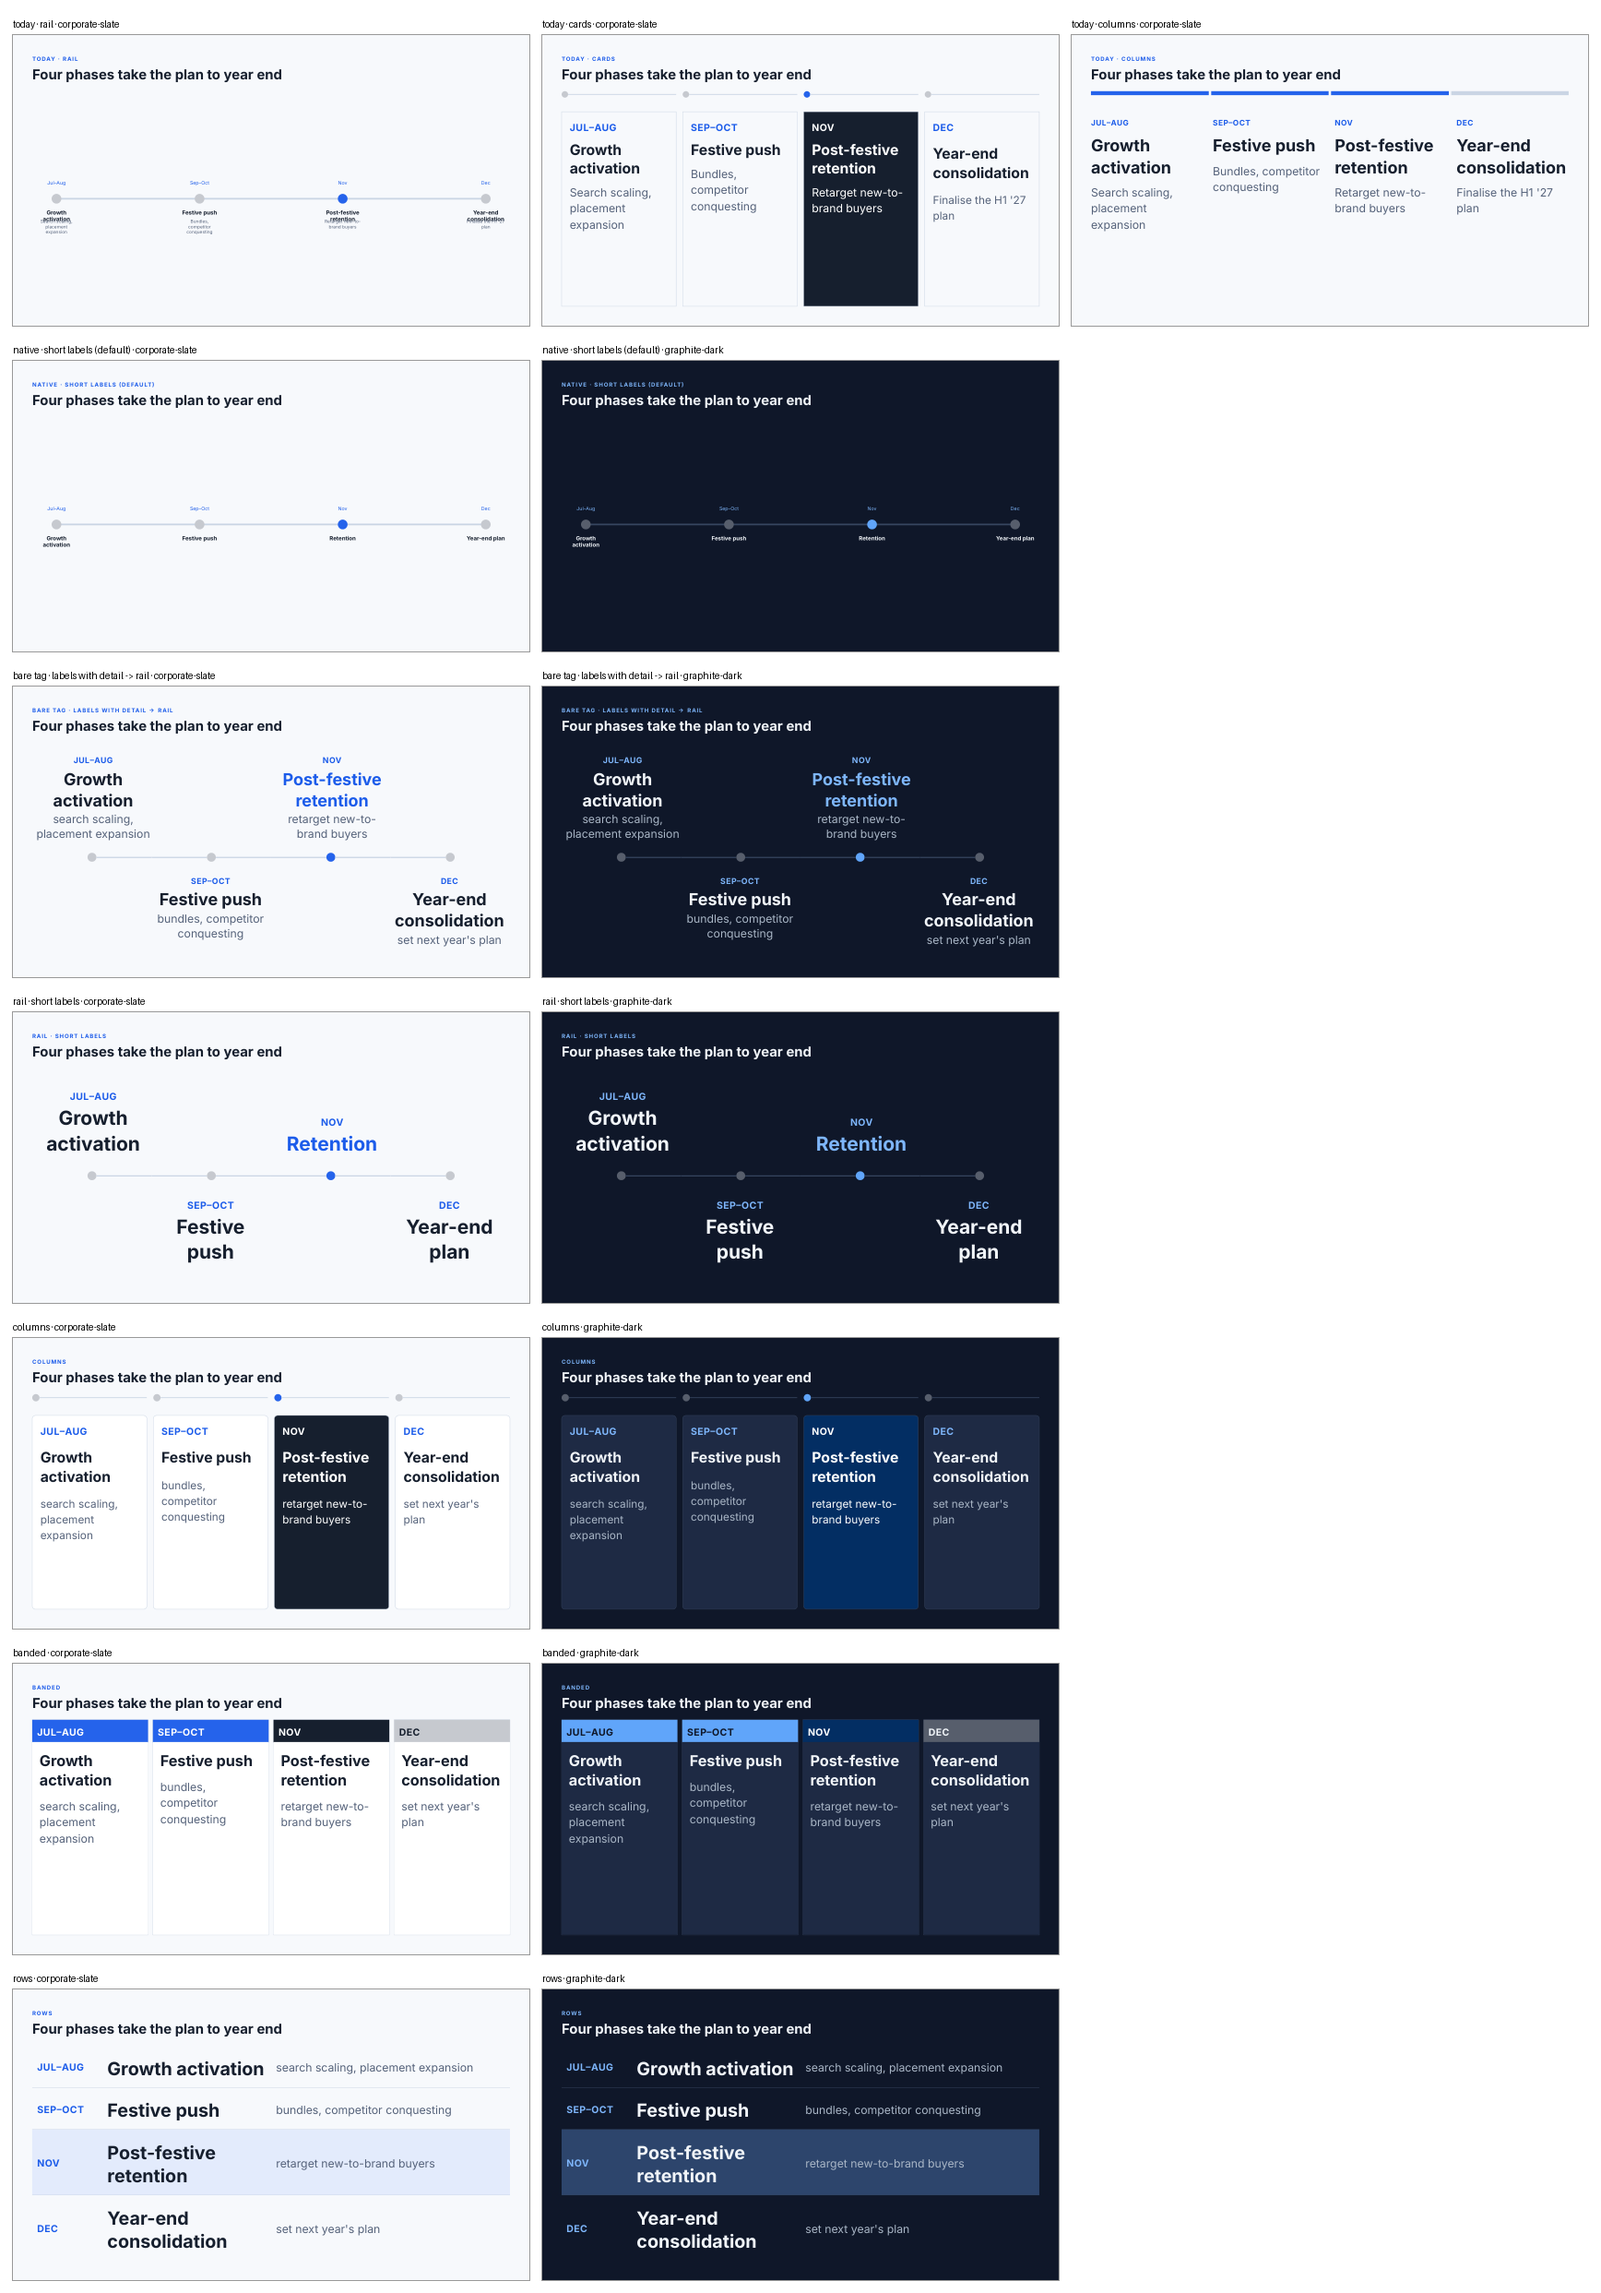
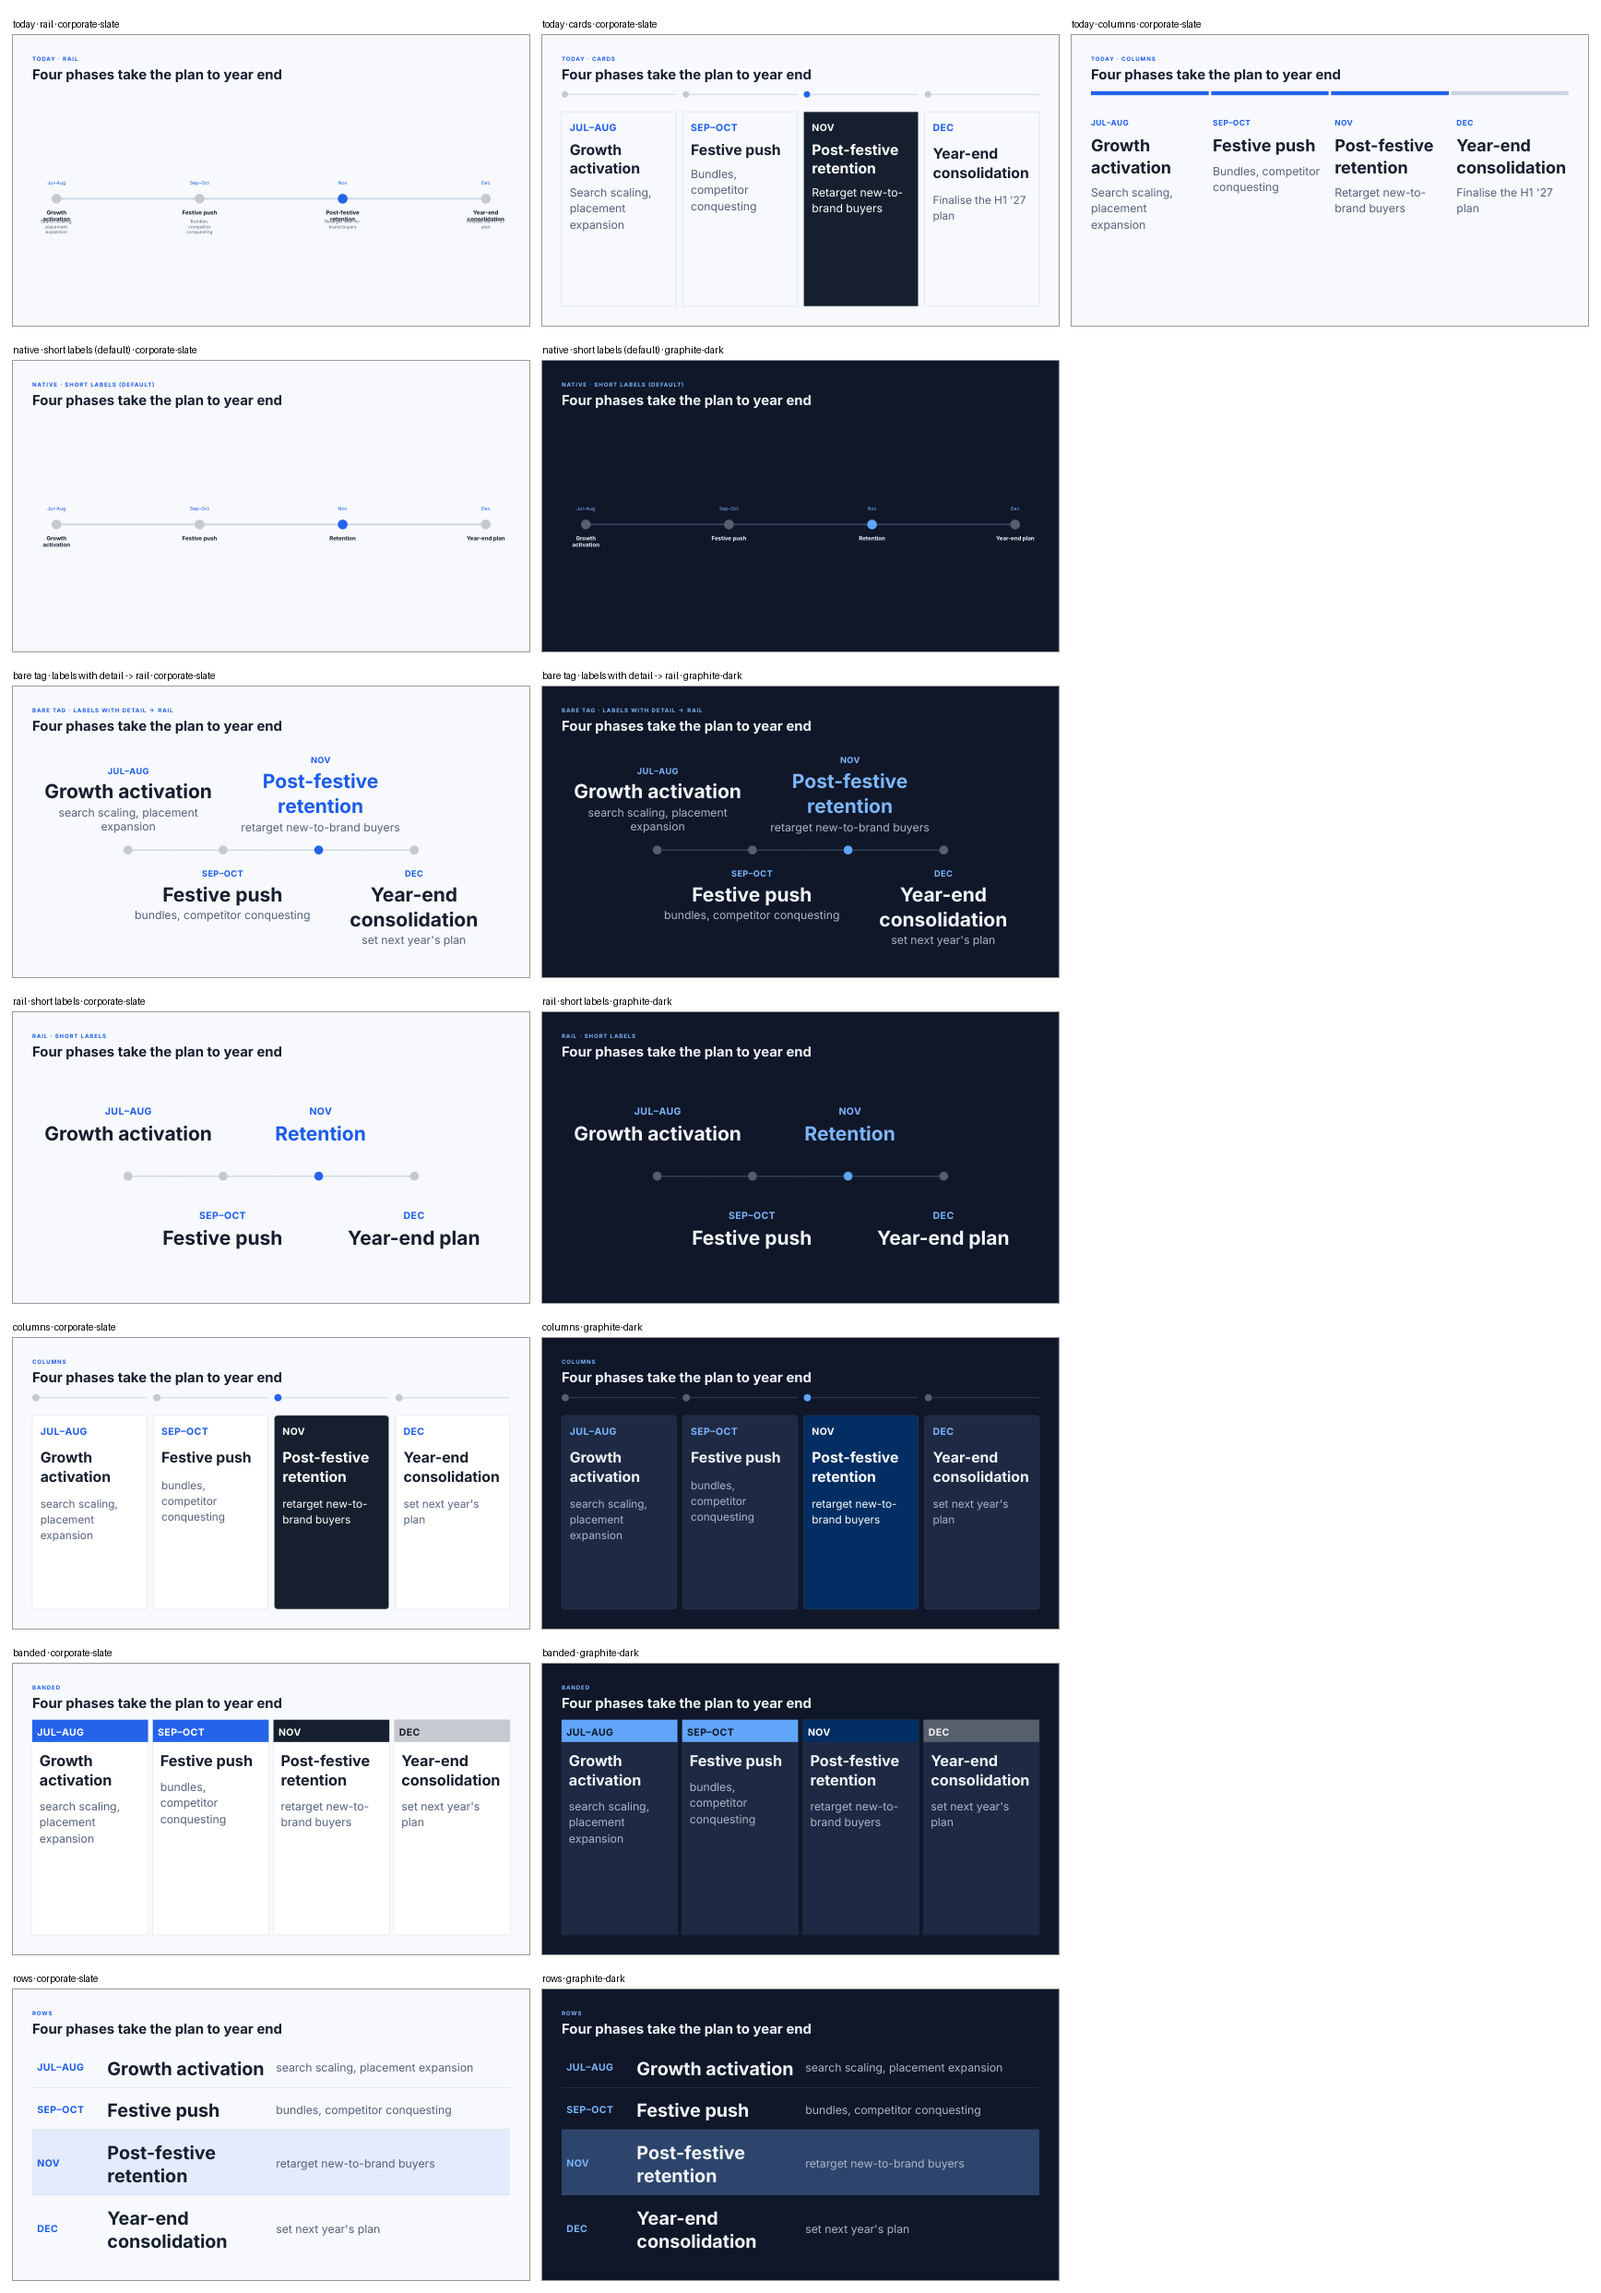
Timeline rail: each text spans two dot gaps (n + 1 units), free replay with the rail default
Six-point timelines with detail spilled their card (one text per sixth of the width). Replay: overlaps 25 -> 9
(LLM 22), GEOM_CARD_EMPTY 7 -> 1, plan items missing 28 -> 0, timeline output tokens -90%.

diff --git a/presentation-pipeline/src/compiler/nodes/sequences.py b/presentation-pipeline/src/compiler/nodes/sequences.py
@@ -93,22 +93,27 @@ def timeline_native(comp, its, box, styles, focus, meta) -> str:
 
 
 def timeline_rail(comp, its, box, styles, focus, meta) -> str:
-    """Dots on a line; each point's date, head and detail above it (even points) or below it (odd ones), so
-    neighbours on one side stand a column apart. Three rows of equal columns keep every dot under its text."""
-    cid, last = comp["component_id"], len(its) - 1
-    top, dots, bottom = [], [], []
+    """Dots on a line; each point's date, head and detail above it (even points) or below it (odd ones). With n
+    points the width is n + 1 units, dot k at unit k + 1, and each text two units wide centred on its dot: the
+    texts on one side touch, and none passes the edge (grow counts half units)."""
+    cid, n = comp["component_id"], len(its)
+    top, dots, bottom = [], ['<VStack w="1" grow="1" />'], ['<VStack w="1" grow="2" />']
     gap = '<VStack w="max" grow="1" />'
     for k, (d, h, x) in enumerate(its):
         p = _style(k, focus, *styles)
-        txt = (f'<VStack id="card-{cid}-{k}" w="1" grow="1" gap="4" padding="6">'
+        txt = (f'<VStack id="card-{cid}-{k}" w="1" grow="4" gap="4" padding="6">'
                + (T(d.upper(), 14, p["date"], bold="true", letterSpacing="1", textAlign="center") if d else "")
                + T(h, 21, p["label"], bold="true", textAlign="center")
                + (T(x, 16, p["description"], textAlign="center") if x else "") + "</VStack>")
         line = f'<Shape{A({"shapeType": "rect", "w": "max", "grow": "1", "h": "3", **p["connector"]})} />'
         dot = f'<Shape{A({"shapeType": "ellipse", "w": "22", "h": "22", **p["marker"]})} />'
         (top if k % 2 == 0 else bottom).append(txt)
-        (bottom if k % 2 == 0 else top).append('<VStack w="1" grow="1" />')
-        dots.append(f'<HStack w="1" grow="1" alignItems="center" gap="0">{line if k else gap}{dot}{line if k < last else gap}</HStack>')
+        dots.append(f'<HStack w="1" grow="2" alignItems="center" gap="0">{line if k else gap}{dot}{line if k < n - 1 else gap}</HStack>')
+    dots.append('<VStack w="1" grow="1" />')
+    for row, start in ((top, 0), (bottom, 1)):
+        rest = n + 1 - start - 2 * sum(k % 2 == start for k in range(n))
+        if rest > 0:
+            row.append(f'<VStack w="1" grow="{2 * rest}" />')
     return (f'<VStack gap="14" justifyContent="center"{A(box)}>'
             f'<HStack gap="0" alignItems="end">{"".join(top)}</HStack>'
             f'<HStack gap="0" alignItems="center">{"".join(dots)}</HStack>'

diff --git a/presentation-pipeline/tests/unit/test_sequence_nodes.py b/presentation-pipeline/tests/unit/test_sequence_nodes.py
@@ -102,7 +102,10 @@ def test_rail_alternates_above_and_below():
     assert "Growth activation" in top and "Post-festive retention" in top
     assert "Festive push" in bottom and "Year-end consolidation" in bottom
     assert dots.count('shapeType="ellipse"') == 4
-    assert top.count('<VStack w="1" grow="1" />') == 2 and bottom.count('<VStack w="1" grow="1" />') == 2
+    # 4 points = 5 units: each text 2 units centred on its dot, the rows padded to the same width
+    assert top.count('grow="4"') == 2 and bottom.count('grow="4"') == 2
+    assert top.endswith('<VStack w="1" grow="2" />') and bottom.startswith('<VStack w="1" grow="2" />')
+    assert dots.startswith('<VStack w="1" grow="1" />') and dots.endswith('<VStack w="1" grow="1" />')
 
 
 # ── emphasis ──────────────────────────────────────────────────────────────────

diff --git a/presentation-pipeline/docs/eval/sequence-nodes/replay.md b/presentation-pipeline/docs/eval/sequence-nodes/replay.md
@@ -2,6 +2,34 @@
 
 Command: `python -m scripts.node_replay --kind <timeline|process_arrow|flow> --src <main checkout>/output` (bare tags, Inter render). Blind sheets and `marks.csv` in `output/<kind>-replay/sheets/`.
 
+## 2026-11-02: timeline with the alternating rail as default (process / flow nodes dropped)
+
+The bare tag now draws `native` (short labels), `rail` (dots on a line, date / head / detail alternating above and
+below; ≤ 7 points) or `columns` (the old box-per-point rail). First run: overlaps 25 (3 six-point slides spilled
+their card: one text per sixth of the width). Fix: each text spans two dot gaps (n + 1 units, dot k at k + 1), so
+neighbours on one side touch and none passes the edge. Re-run:
+
+Slides: 23 (one timeline component with an id, one LLM-drawn <Timeline>); the LLM's card around it replaced too on 1. B compositions: {'rail': 17, 'native': 6}. Skipped (not well-formed XML): 1.
+
+| | A (LLM's timeline) | B (Timeline tag) |
+|---|---|---|
+| compiled | 23 | 23 |
+| plan items not all on the slide | 28 | 0 |
+| GEOM_CARD_EMPTY | 7 | 1 |
+| GEOM_SLIDE_SPARSE | 0 | 0 |
+| broken words (render) | 11 | 11 |
+| text overlaps (render) | 22 | 9 |
+| WORD_TOO_WIDE | 5 | 5 |
+| LOW_CONTRAST | 1 | 1 |
+| timeline output tokens | 3377 | 342 (-90%) |
+
+B issues: {'NODE_DEFAULT_FROM_CONTENT': 17, 'NODE_TEXT_SPLIT': 8}
+
+Left: pair 3.4 (gj-h1 7293ef s12), where the LLM put its own month list in the same fixed-height card under the
+timeline; the taller rail meets the header (2 overlaps). One slide, left to the marks.
+
+### Earlier (2026-10-28, cards default)
+
 ## Timeline node: free replay (LLM layout kept), arm B = <Timeline ref>
 
 Slides: 23 (one timeline component with an id, one LLM-drawn <Timeline>); the LLM's card around it replaced too on 1. B compositions: {'rail': 17, 'native': 6}. Skipped (not well-formed XML): 1.
